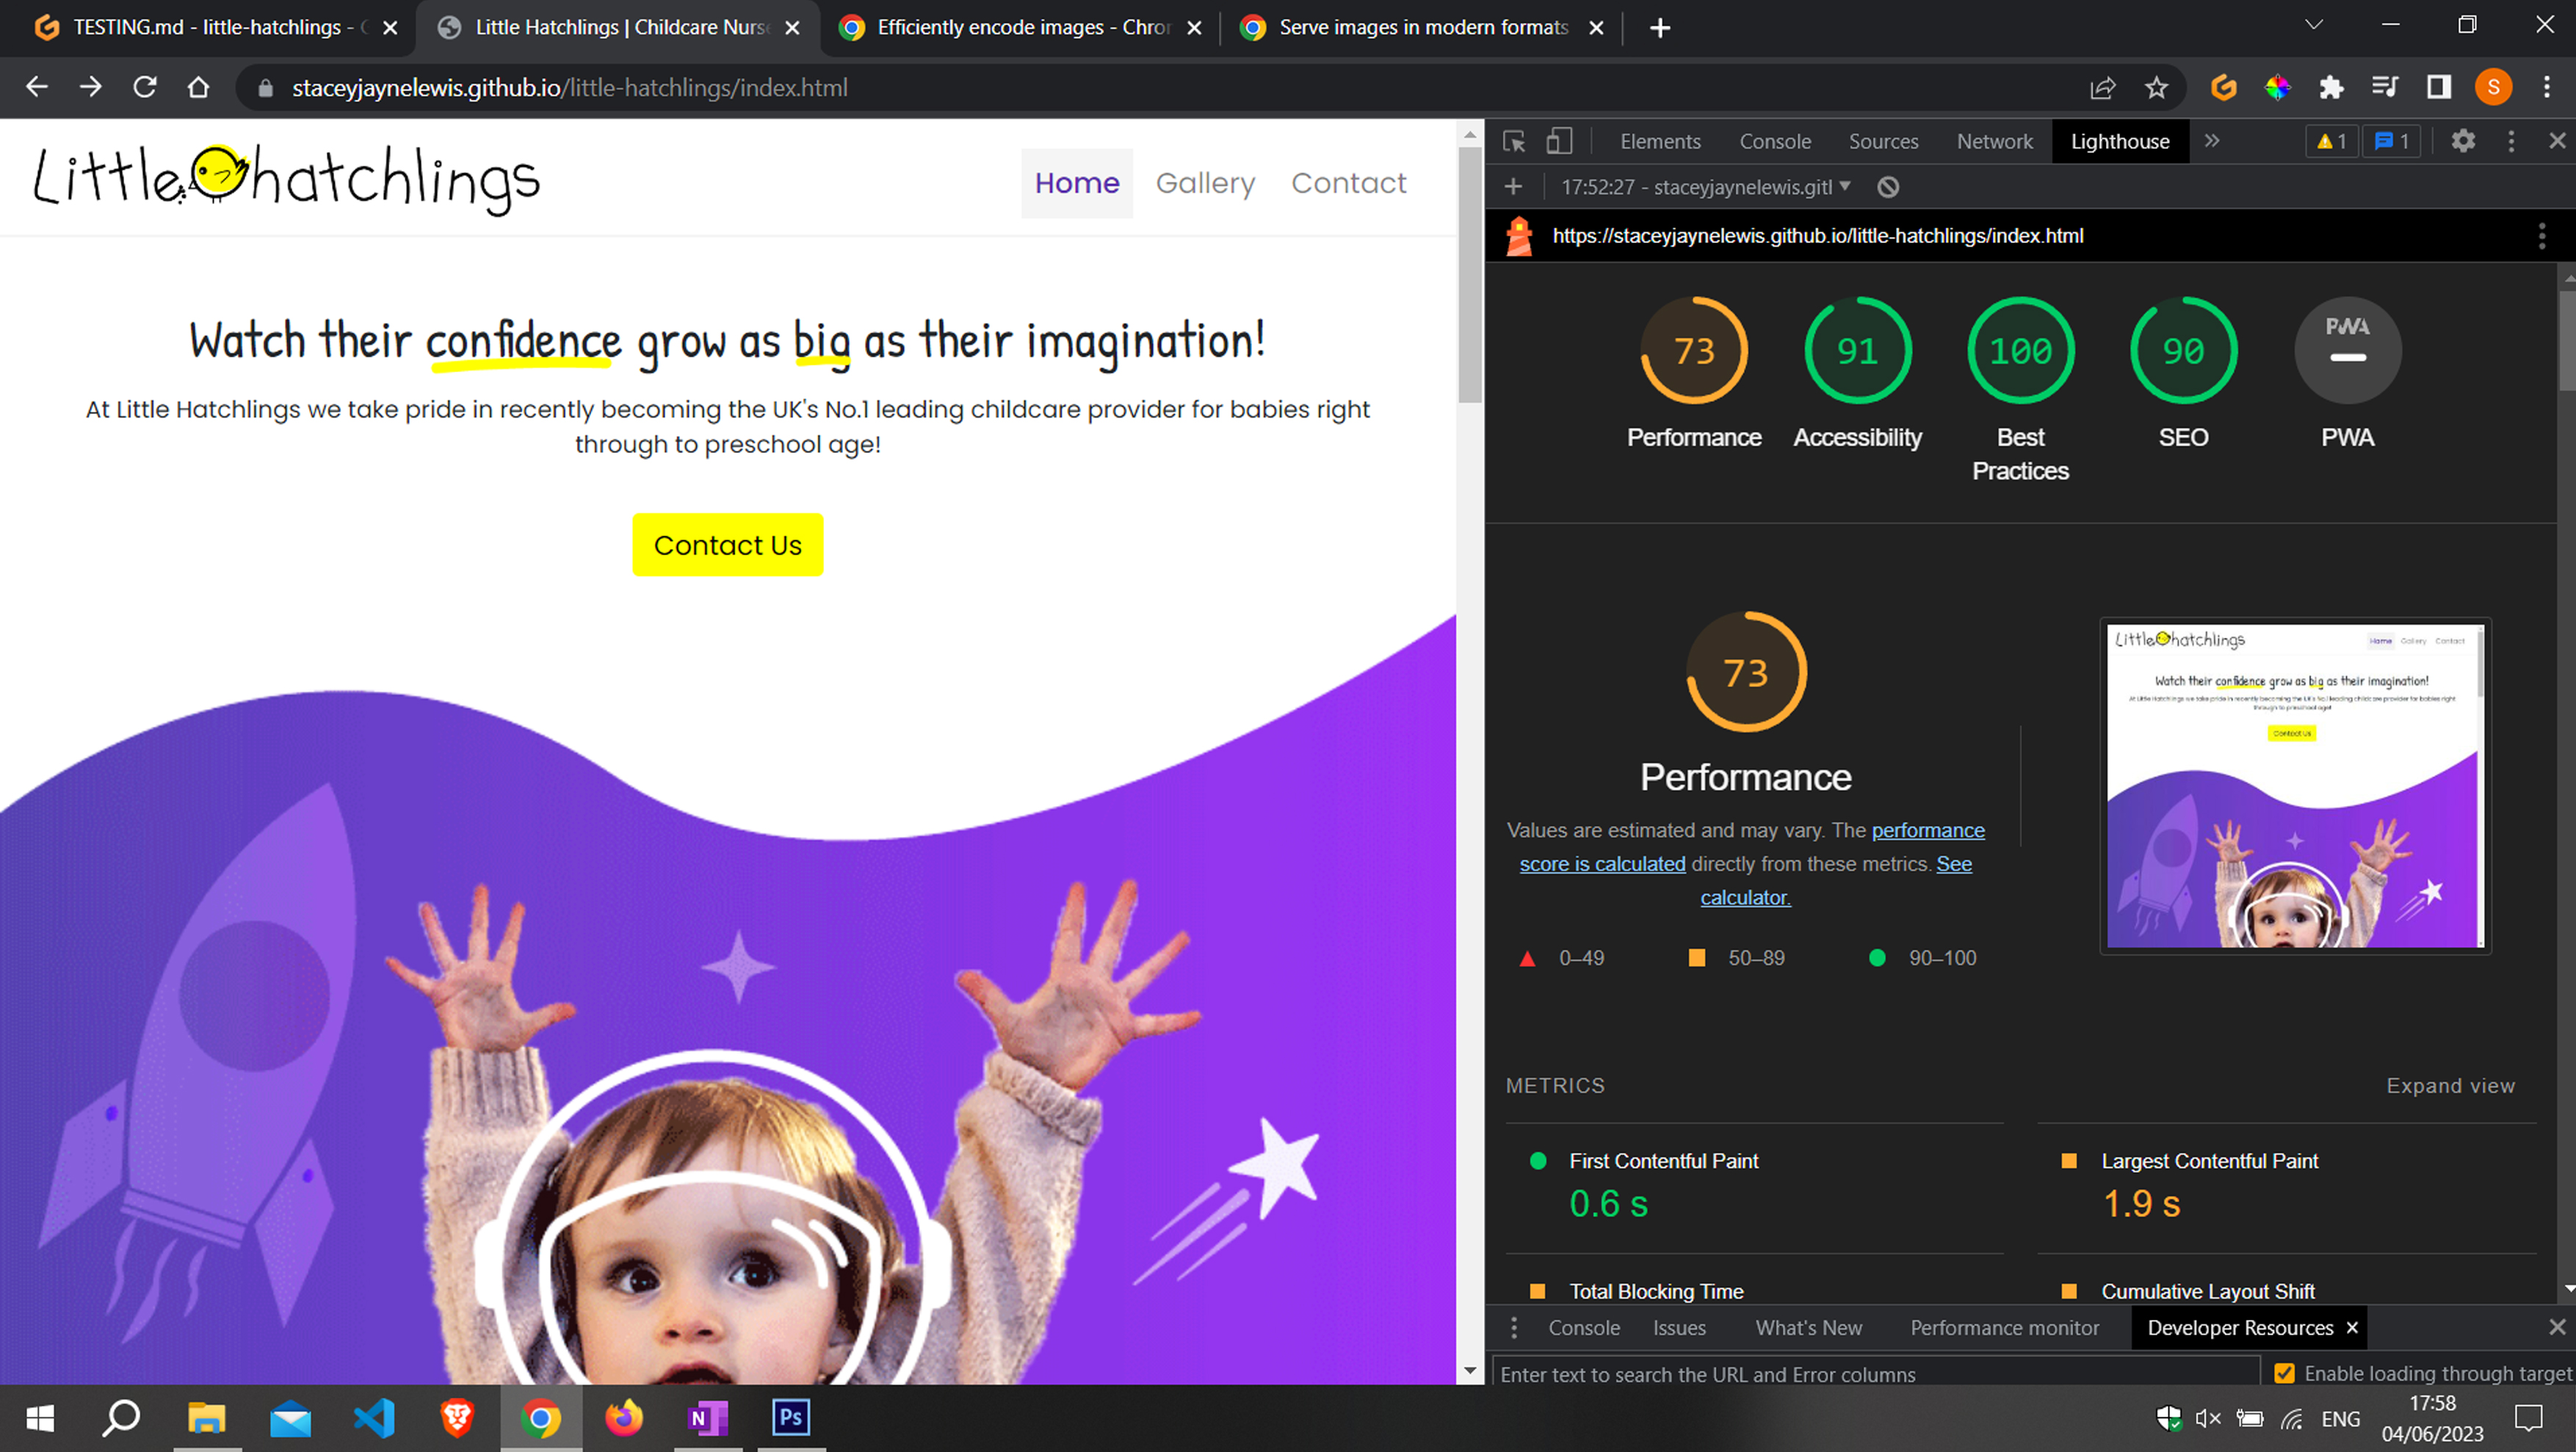
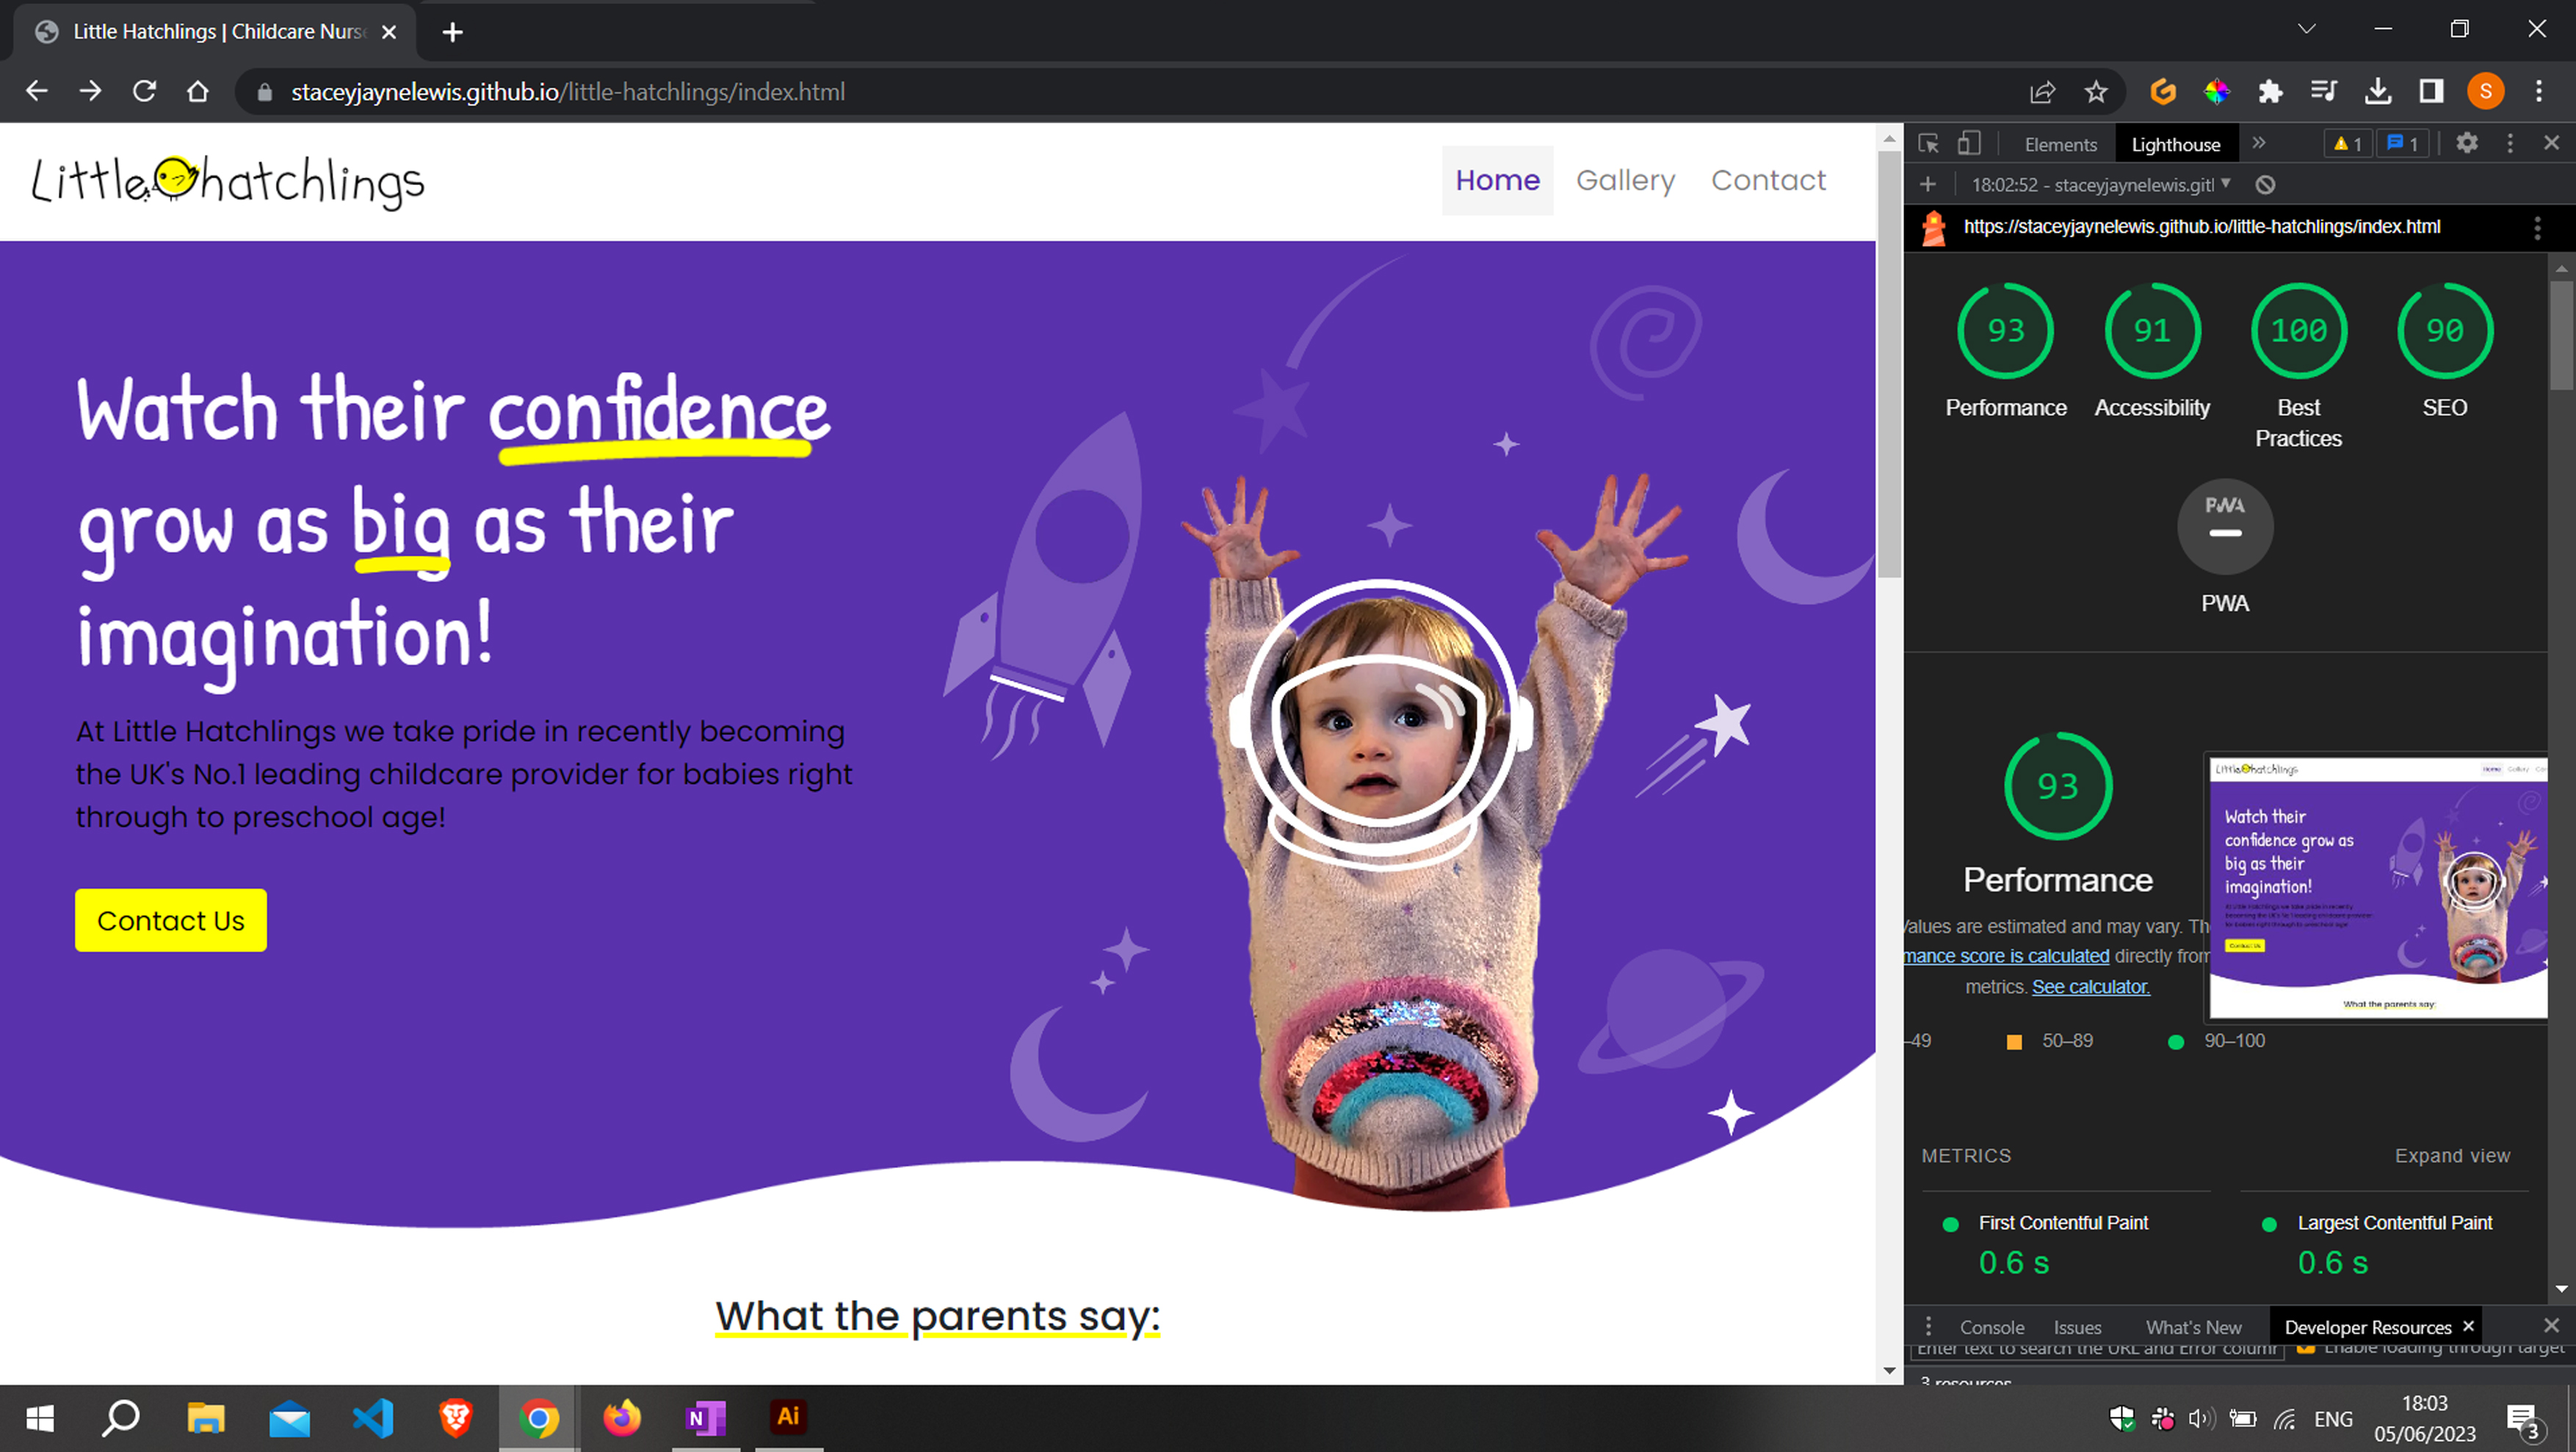
Docs:Update lighthouse screenshots after changes

diff --git a/TESTING.md b/TESTING.md
@@ -61,7 +61,7 @@ I've tested my deployed project on multiple devices to check for responsiveness 
 | iPad (DevTools) | ![screenshot](documentation/ipad.jpg) | Works as expected |
 | Samsung tablet | ![screenshot](documentation/samsung-tablet.jpg) | Works as expected |
 | Laptop | ![screenshot](documentation/chrome-compatibility.jpg) | Works as expected |
-| Desktop | 
+| Desktop | ![screenshot](documentation/desktop-large.jpg) | Works as expected |
 
 ## Lighthouse Audit
 
